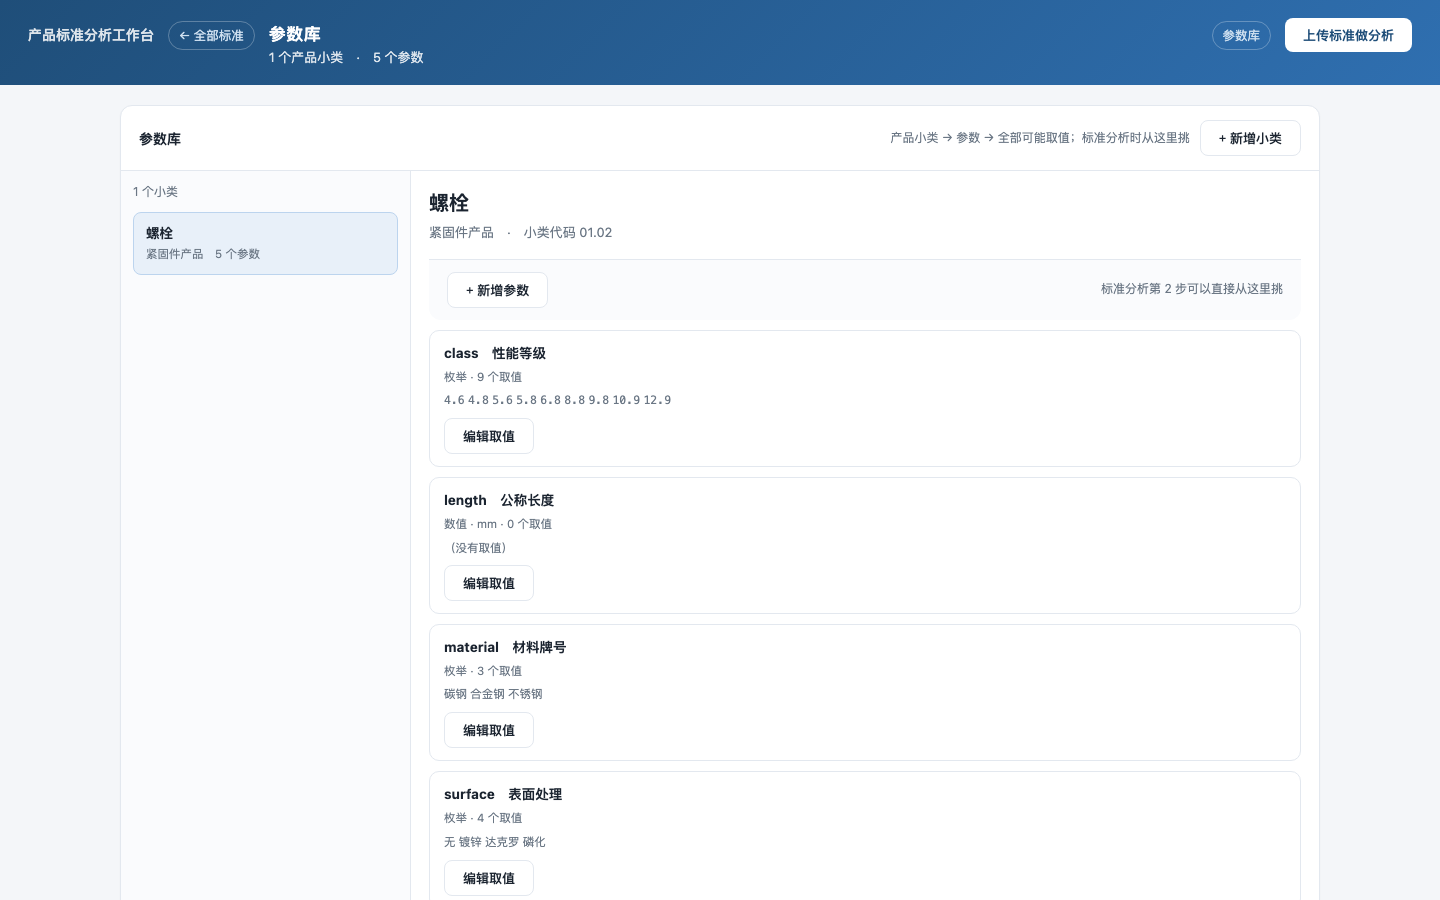
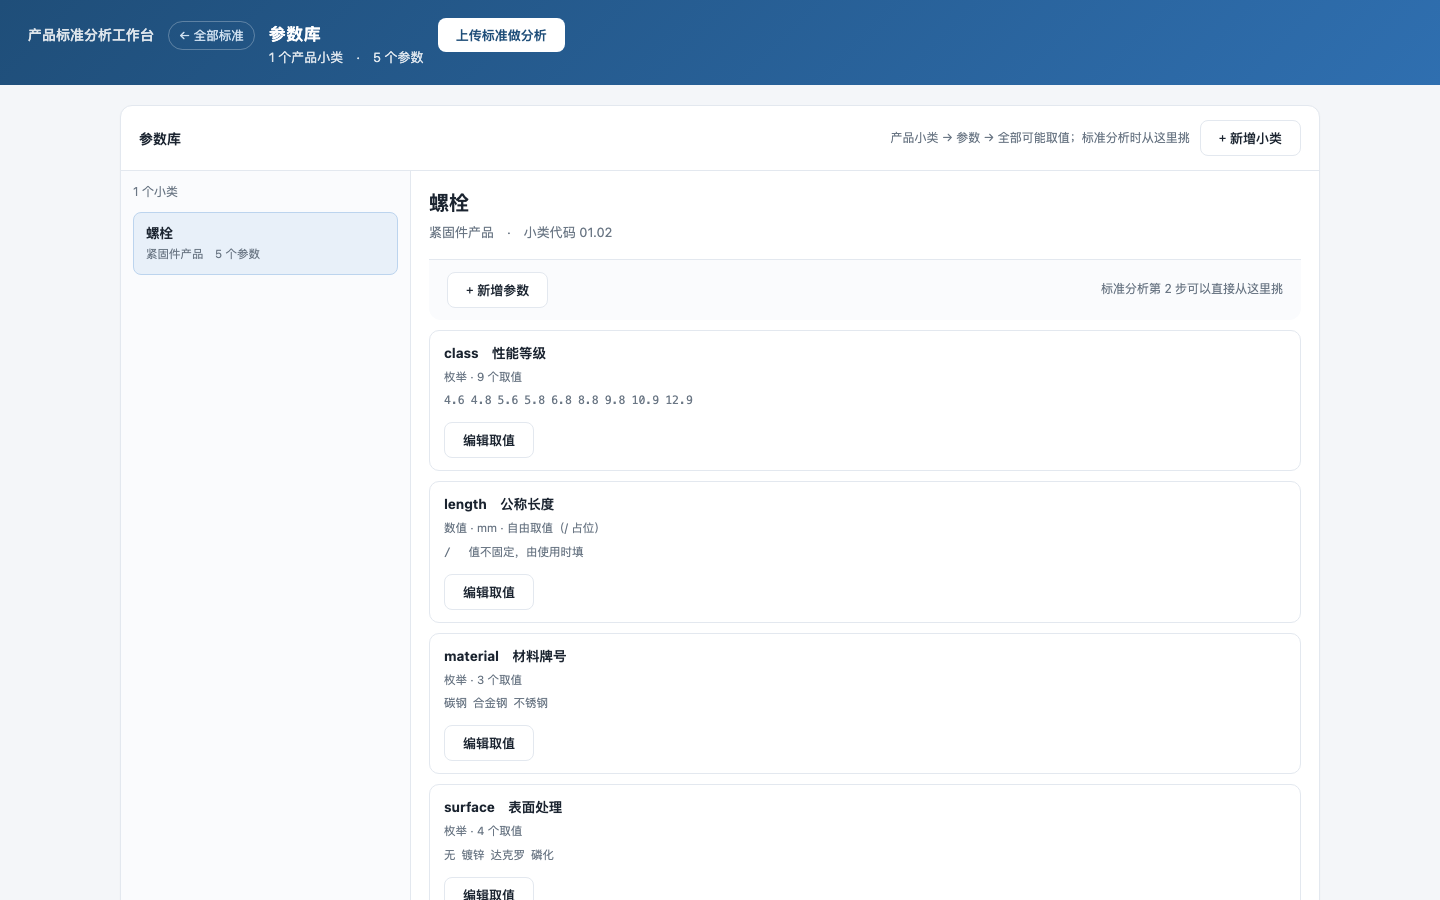
feat: 参数值支持「/」占位（值不固定的参数）
- 数值型参数在参数库里存一行 {sym:'/', val:'/'}，表示有这个参数但值不定
- 界面显示「自由取值（/ 占位）」，编辑弹窗加「+ 加 / 占位」
- 导入到标准时按 number 处理，不生成枚举可选值
- spec/README 补参数库说明

diff --git a/g1/service/templates/index.html b/g1/service/templates/index.html
@@ -583,7 +583,8 @@
     <div class="mbody">
       <div class="summary" style="margin-bottom:8px">
         <button class="btn ghost" id="valsAdd">+ 新增一行</button>
-        <span class="lbl">符号与定值通常相同；不同时分别填</span>
+        <button class="btn ghost" id="valsFree">+ 加「/」占位</button>
+        <span class="lbl">数值型参数用 / 占位：有这个参数，但值不固定</span>
       </div>
       <table class="analyze">
         <thead><tr>
@@ -1097,11 +1098,12 @@ function renderCatDetail(cid){
     <div class="draft" data-p="${esc(p.id)}">
       <h4>${esc(p.code)}　${esc(p.name)}</h4>
       <div class="meta">${p.type === 'enum' ? '枚举' : '数值'}${p.unit ? ' · ' + esc(p.unit) : ''}
-        · ${p.values.length} 个取值</div>
+        · ${isFreeValues(p.values) ? '自由取值（/ 占位）' : p.values.length + ' 个取值'}</div>
       <div class="meta" style="margin-top:6px">${
         p.values.length
           ? p.values.map(v => `<code style="display:inline-block;margin:0 6px 4px 0">${esc(v.val)}</code>`).join('')
-          : '<span class="muted">（没有取值）</span>'}</div>
+          : '<span class="muted">（没有取值）</span>'}${
+        isFreeValues(p.values) ? '<span class="muted">　值不固定，由使用时填</span>' : ''}</div>
       <div class="ops"><button class="btn ghost" data-op="vals" data-id="${esc(p.id)}">编辑取值</button></div>
     </div>`).join('') || '<div class="muted" style="padding:16px">这个小类还没有参数</div>';
 
@@ -2109,11 +2111,12 @@ $('#cpOk').onclick = () => {
   let n = 0;
   picked.forEach(p => {
     if(have.has(p.code)) return;
+    const free = isFreeValues(p.values);
     A.job.params_spec.push({
-      code: p.code, name: p.name, type: p.type, unit: p.unit || '',
-      required: !!p.required, options: (p.values || []).map(v => v.val),
+      code: p.code, name: p.name, type: free ? 'number' : p.type, unit: p.unit || '',
+      required: !!p.required, options: free ? [] : (p.values || []).map(v => v.val),
       values_list: (p.values || []).map(v => ({sym: v.sym, val: v.val})),
-      default: (p.values || [])[0] ? p.values[0].val : null,
+      default: free ? null : ((p.values || [])[0] ? p.values[0].val : null),
       min: null, max: null, help: p.help || '',
     });
     n += 1;
@@ -2484,7 +2487,9 @@ function renderParams(){
       <td><input type="text" class="popts" value="${esc((p.options || []).join(','))}"
                  ${p.type === 'enum' ? 'placeholder="如：A,B,C"' : 'disabled placeholder="—（数值型不需要）"'}></td>
       <td style="white-space:nowrap">
-        <button class="rowvals" data-i="${i}">${(p.values_list || []).length || (p.options || []).length} 个 · 编辑</button>
+        <button class="rowvals" data-i="${i}">${
+          isFreeValues(p.values_list) ? '自由取值' :
+          ((p.values_list || []).length || (p.options || []).length) + ' 个'} · 编辑</button>
       </td>
       <td class="evi" title="${esc((p.trace || []).join(' / '))}">${esc((p.trace || ['—'])[0])}</td>
       <td><button class="rowdel" title="删除">×</button></td>
@@ -2533,6 +2538,13 @@ function syncParams(){
 /* ---------- 参数取值（该参数可能的全部值） ---------- */
 let VALS = {index: -1};
 
+const FREE_MARKS = ['/', '／', '—', '-', '－'];
+
+function isFreeValues(list){
+  if(!list || !list.length) return false;
+  return list.every(v => FREE_MARKS.includes(String(v.val ?? '').trim()));
+}
+
 function openVals(target){
   VALS.target = target;
   VALS.list = (target.list || []).map(v => ({sym: v.sym ?? v.val, val: v.val ?? v.sym}));
@@ -2573,6 +2585,11 @@ function readVals(){
 $('#valsAdd').onclick = () => {
   VALS.list = readVals();
   VALS.list.push({sym: '', val: ''});
+  renderVals();
+};
+$('#valsFree').onclick = () => {
+  VALS.list = readVals();
+  VALS.list.push({sym: '/', val: '/'});
   renderVals();
 };
 $('#valsBody').oninput = () => { VALS.list = readVals(); };

diff --git a/README.md b/README.md
@@ -18,6 +18,7 @@
 | 检验卡 | `#/card/<标准>` | 选规格 → 出卡 → 录实测 → 判定；条款号可点开原件对应页 |
 | 限值表 | `#/tables/<标准>` | 左选表、右看明细；每张表可跳转原件页码 |
 | 上传分析 | `#/analyze` | 上传 PDF → 识别检项与表格 → 确认 → 发布成标准 |
+| 参数库 | `#/catalog` | 产品小类 → 参数 → 全部取值（标准分析从这里挑） |
 
 ![检验卡](g1/service/docs/step2.png)
 
